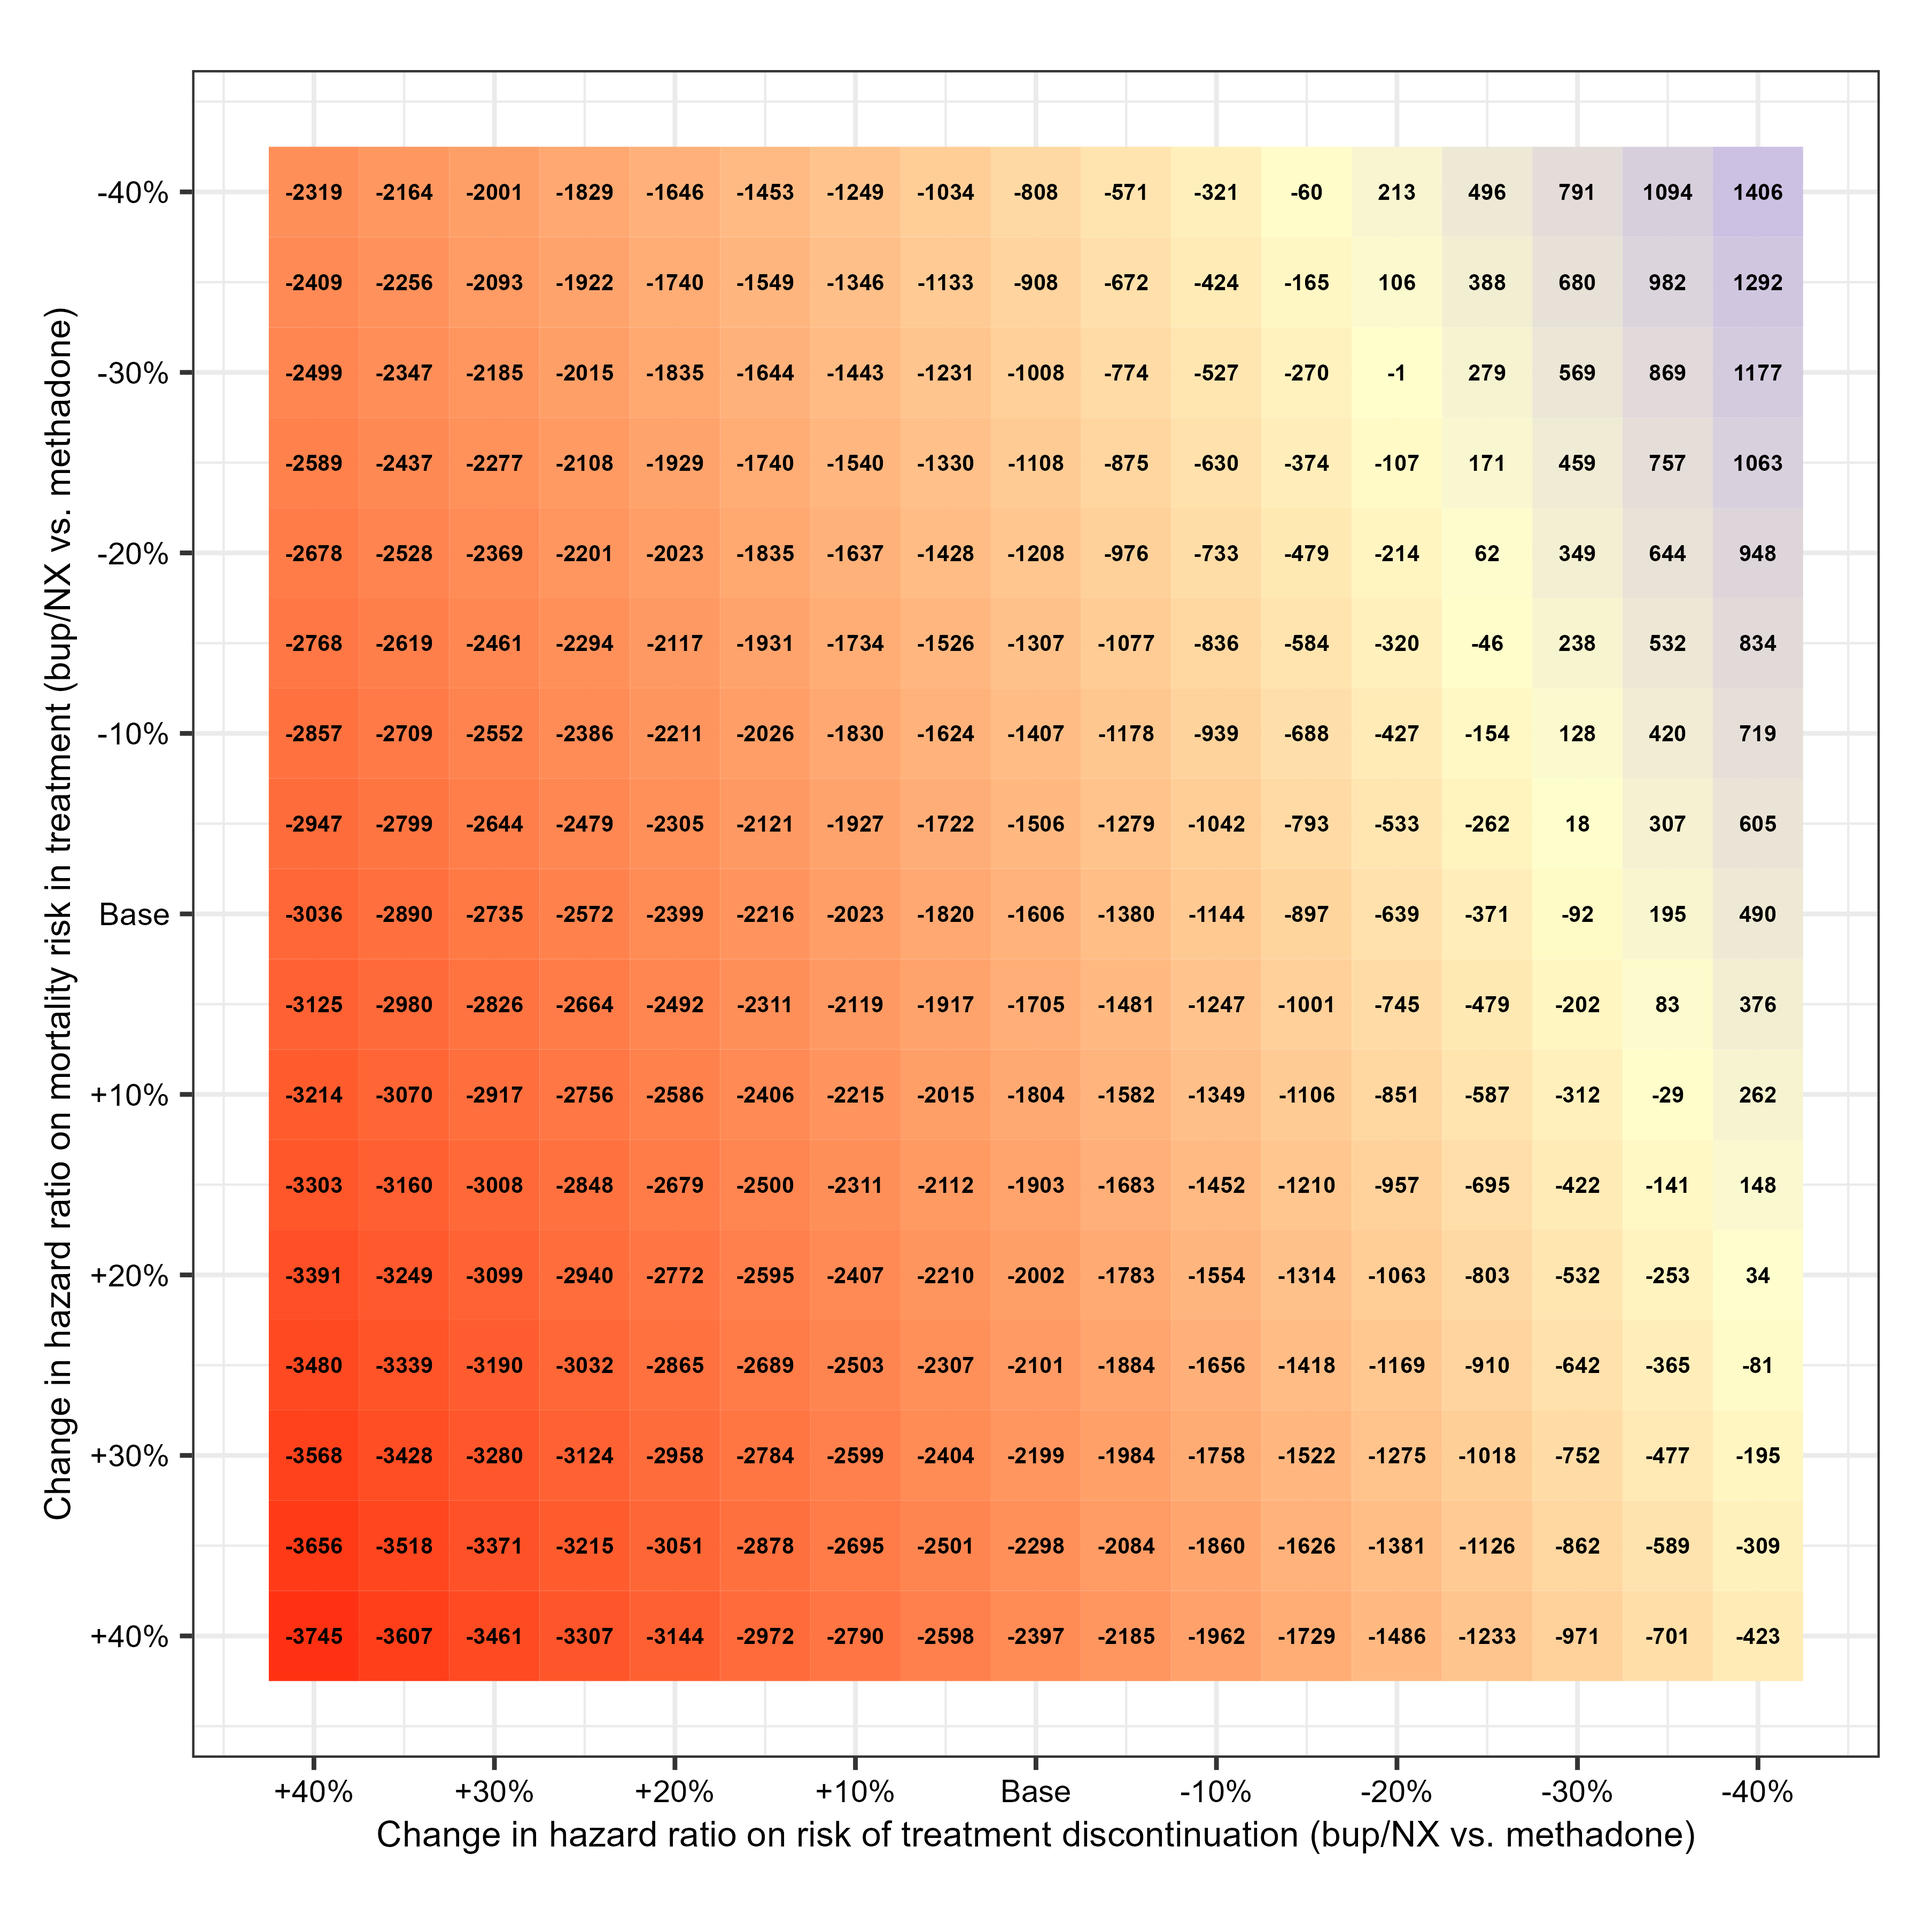
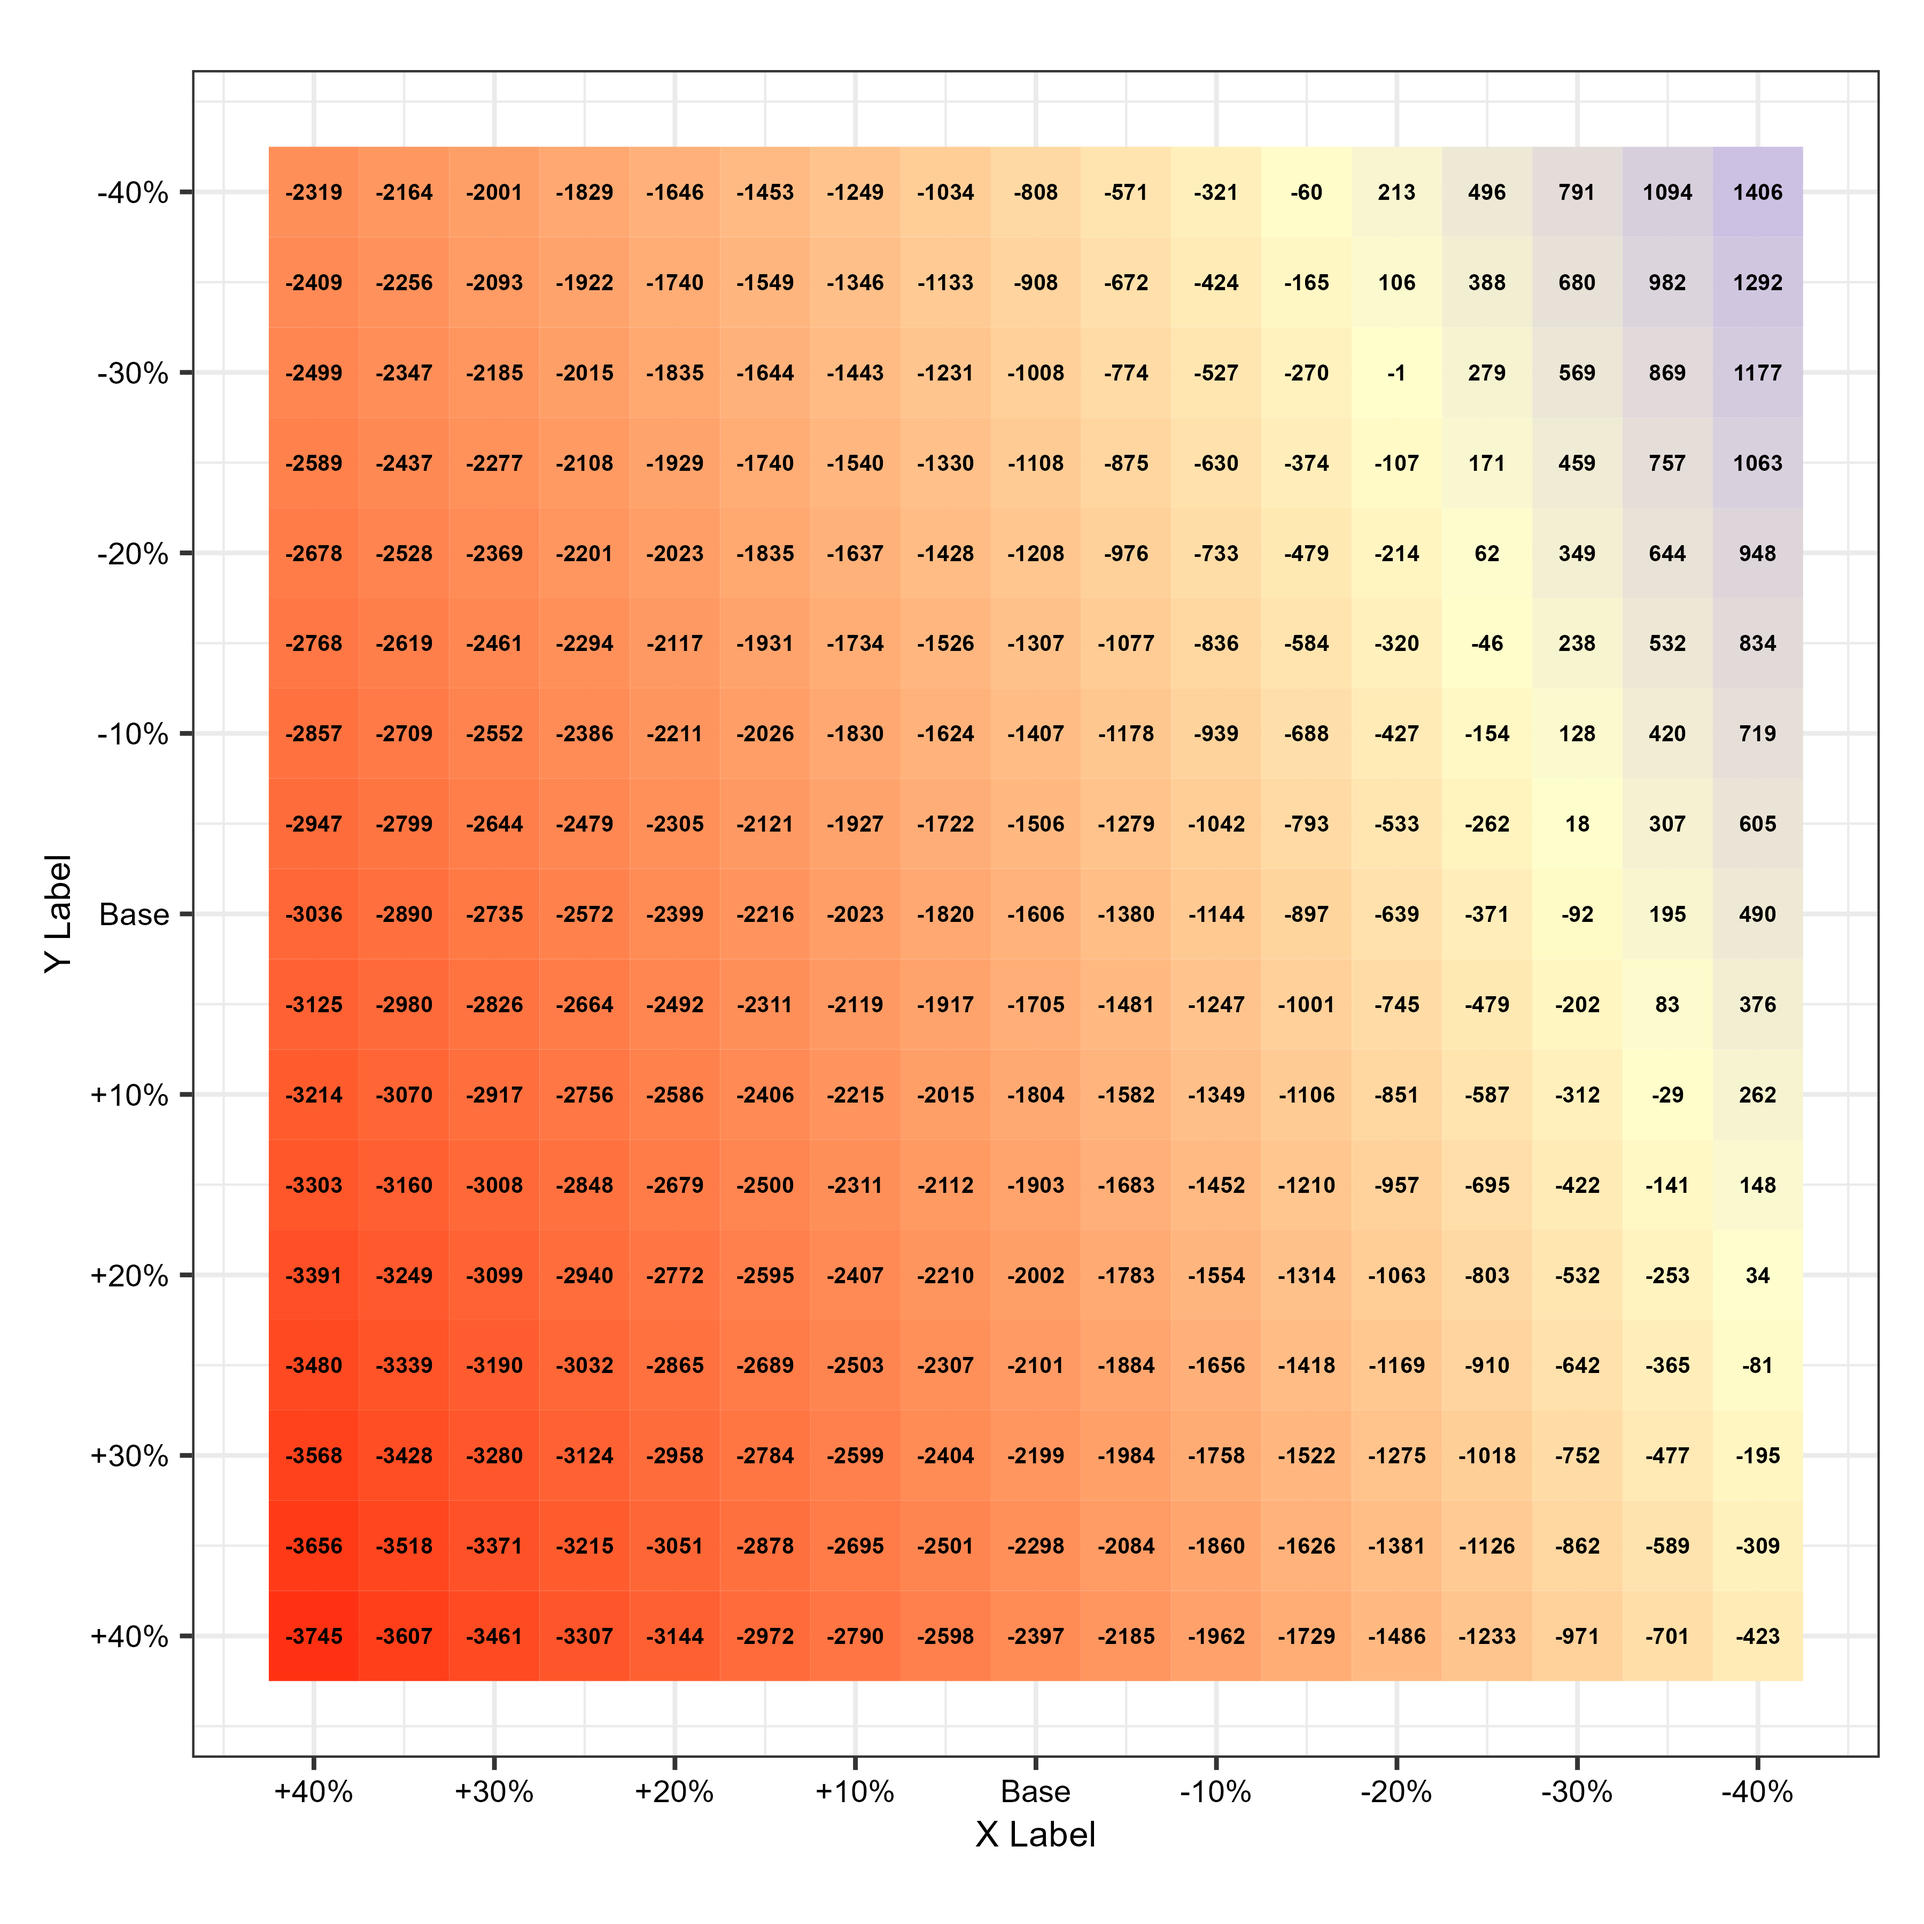
Minor update

Changed region(s): [[0.1867, 0.9333, 0.7467, 0.9644], [0.7778, 0.9333, 0.8711, 0.9644], [0.0, 0.4667, 0.0311, 0.4978]]

diff --git a/Tornado Plot/tornado_readme.md b/Tornado Plot/tornado_readme.md
@@ -4,5 +4,9 @@
 
 # Notes
 
-This plot was designed to visualize the results of deterministic univariate sensitivity analysis in simulation modeling. It displays results in a tornado plot, with the y-axis representing different parameters, and the x-axis representing the impact of each parameter on the outcome variable when varied between a range of values. The length of each bar in the tornado plot represents the magnitude of the impact of the corresponding parameter on the outcome variable. The bars are sorted in descending order of impact, with the most impactful parameter at the top of the plot.
+This plot was designed to visualize the results of deterministic univariate sensitivity analysis in simulation modeling. 
+
+It displays results in a tornado plot, with the y-axis representing different parameters, and the x-axis representing the impact of each parameter on the outcome variable when varied between a range of values. 
+
+The length of each bar in the tornado plot represents the magnitude of the impact of the corresponding parameter on the outcome variable. The plotting code contains a function to sort the bars in descending order of impact, with the most impactful parameters at the top.
 

diff --git a/Heatmap (Two-Way SA)/heatmap_readme.md b/Heatmap (Two-Way SA)/heatmap_readme.md
@@ -4,5 +4,7 @@
 
 # Notes
 
-This plot was designed to visualize the results of a two-way sensitivity analysis in simulation modeling. The plot shows the results as a heatmap, with the x-axis representing the values of one parameter and the y-axis representing the values of another parameter. The color of each cell in the heatmap represents the value of the outcome variable at the corresponding combination of parameter values.
+This plot was designed to visualize the results of a two-way sensitivity analysis in simulation modeling, but can be adapted for any application. 
+
+It shows the results as a heatmap, with the x-axis representing the values of one parameter and the y-axis representing the values of another parameter. The color of each cell in the heatmap represents the value of the outcome variable at the corresponding combination of parameter values. Colours and scales can be adjusted as needed.
 
